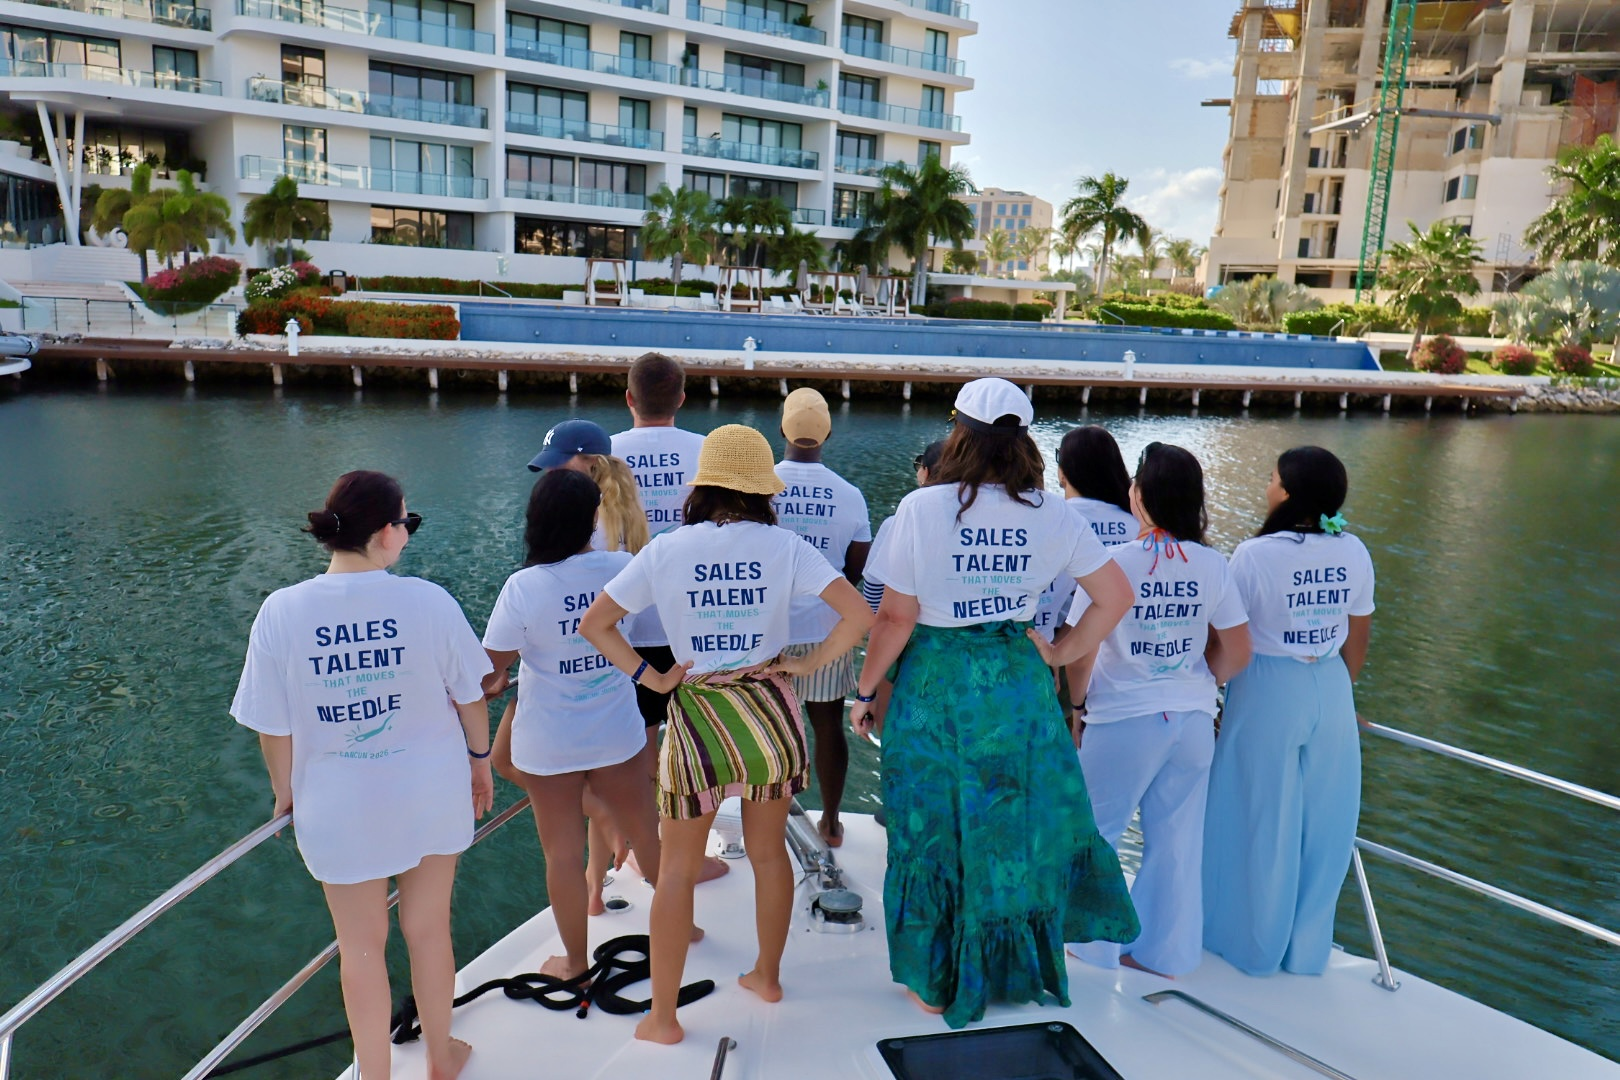
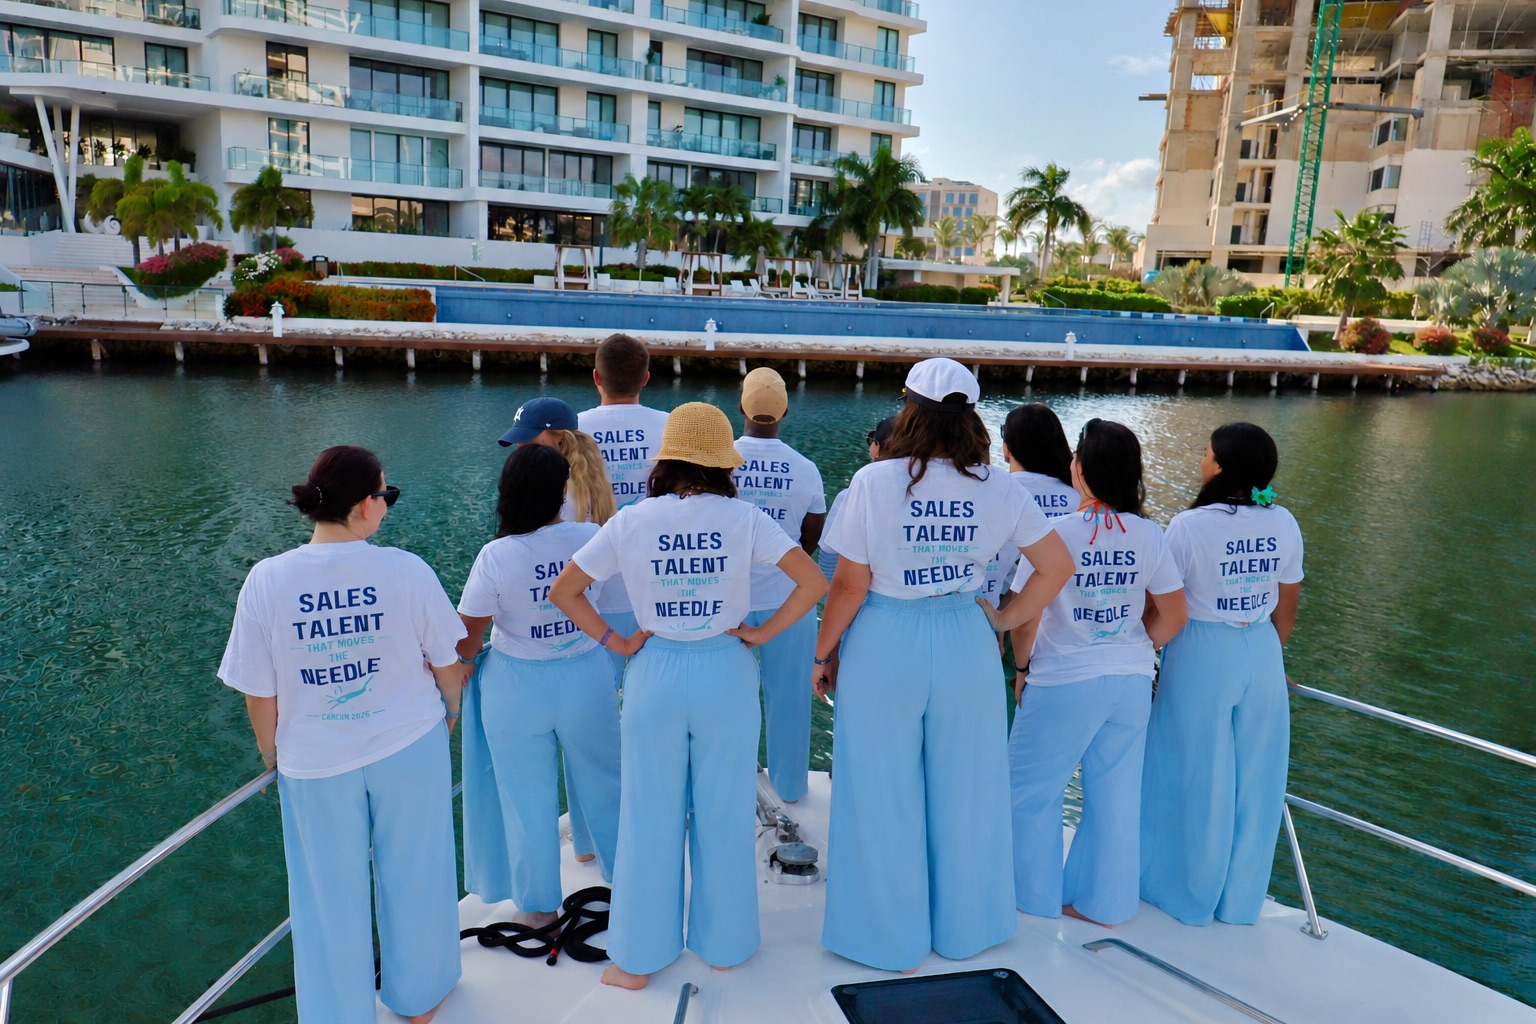
Hero: full edited Cancun photo (matching blue), legs-crop undone

diff --git a/index.html b/index.html
@@ -81,8 +81,8 @@
 
   /* hero - full-bleed Cancún photo + indigo gradient (degrades to indigo if photo missing) */
   /* Full-bleed Cancún photo (resort top + team; legs cropped out of the file). Gradient only for text legibility - no flat color block. */
-  .hero{position:relative;background:linear-gradient(102deg,rgba(26,26,54,.82) 0%,rgba(40,40,82,.5) 46%,rgba(51,51,102,.14) 100%),url('img/cancun-team.jpg?v=5') center top/cover no-repeat,#2c2c55;color:#fff;overflow:hidden}
-  .hero__inner{position:relative;z-index:2;max-width:980px;padding:64px 0 58px}
+  .hero{position:relative;background:linear-gradient(102deg,rgba(26,26,54,.82) 0%,rgba(40,40,82,.5) 46%,rgba(51,51,102,.14) 100%),url('img/cancun-team.jpg?v=6') center/cover no-repeat,#2c2c55;color:#fff;overflow:hidden}
+  .hero__inner{position:relative;z-index:2;max-width:980px;padding:100px 0 92px}
   .hero .eyebrow{color:#fff}
   .hero .eyebrow::before{background:var(--cyan)}
   .hero h1{color:#fff;font-size:clamp(46px,6.6vw,88px);line-height:1.0;font-weight:600;letter-spacing:-.02em;margin:22px 0 0;max-width:16ch;text-shadow:0 2px 22px rgba(14,14,38,.45)}